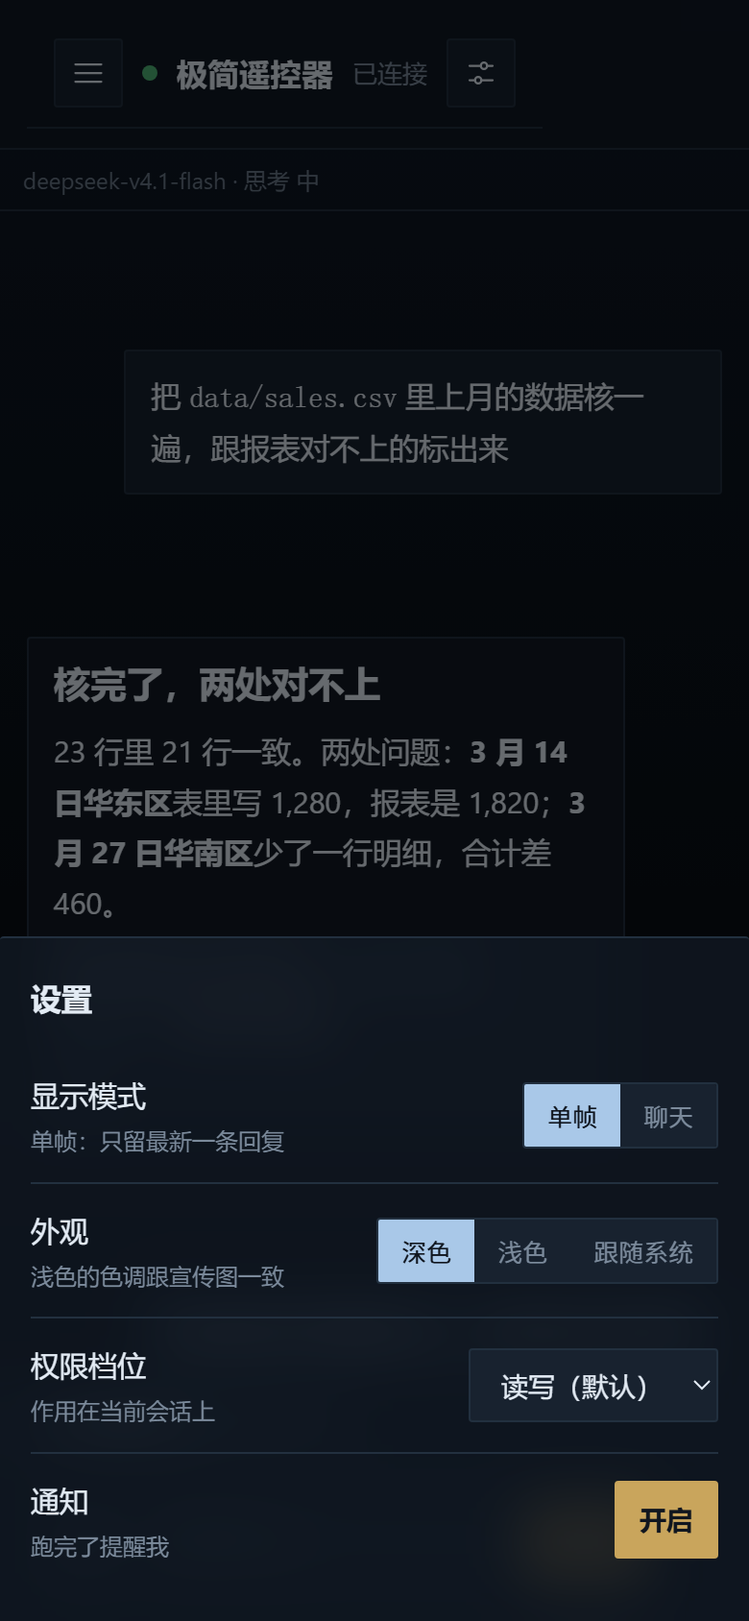
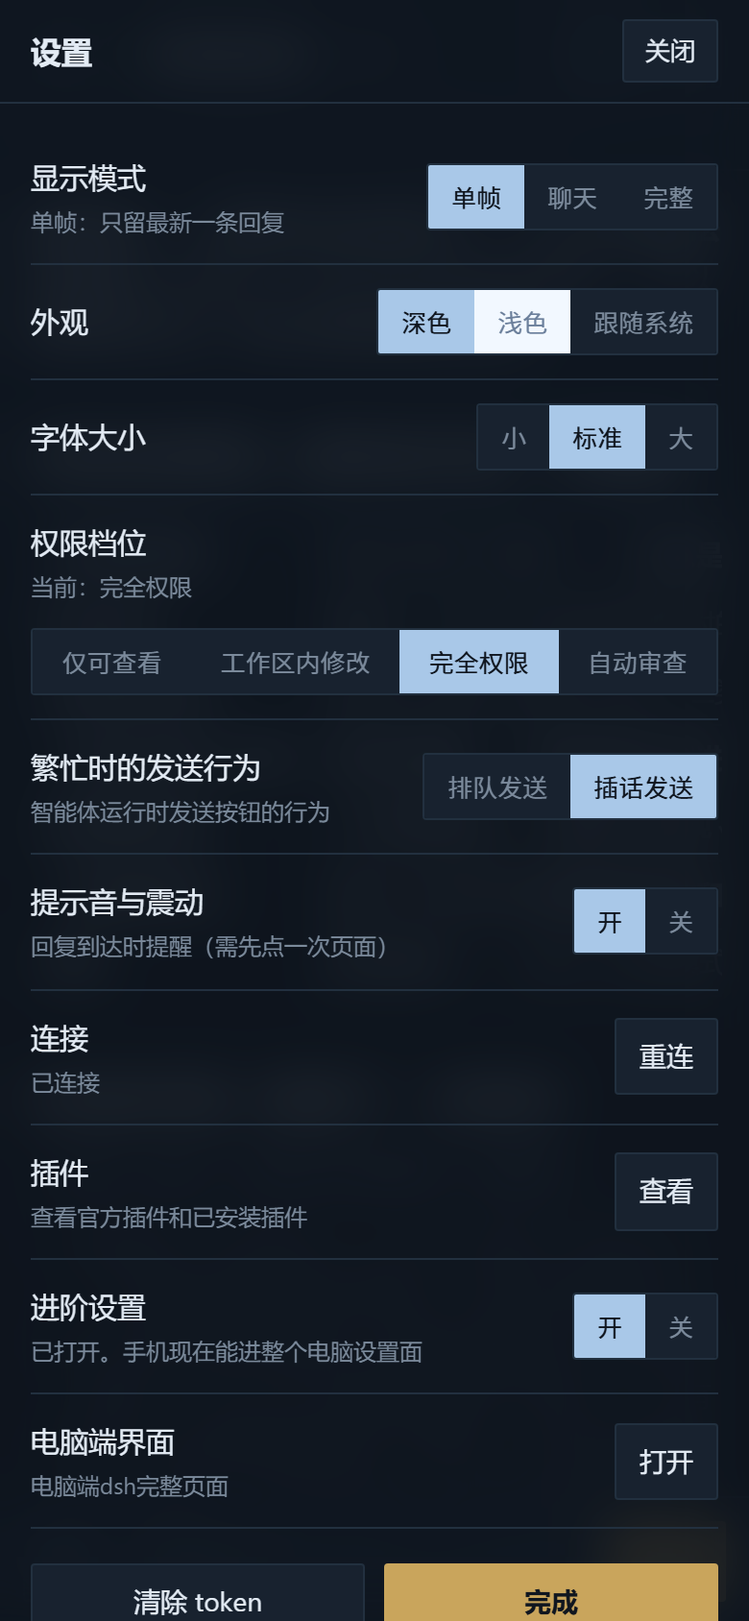
README：按新定位重写开篇，并整体润色（中英同步 + 重拍两张设置页截图）
用户原话：「随着项目功能的丰富，我们的 README 可能也需要一定的更新，比如最开始我们项目提供的是**跳过复杂繁琐的执行轨迹信息，只保留问答**，
但现在我们已经提供了**完整模式**，我们的卖点变成了**提供各种不同的用户需求对话界面显示方式**。
请你用子代理更新 README，同时**润色我们的 README 文字语言，让其更加易读、流畅且专业，去除 AI 味，增强逻辑性与人类语感**。」

## 开篇：换一个说法（不只是加一句）

- 改前：「**你发一句话，手机上只收到它的结论。**」＋「…这个插件是给「出门在外，只想发指令、等结论」这件事做的——一部手机、一个输入框、最新的一条回答，就这些。」
- 改后：「**你发一句话，手机怎么给你看，由你挑。**」＋「工具调用、文件读写、子 Agent 调度、思考正文，这些要不要出现在屏幕上，我们不替你做主。
  同一场对话有三种看法：整屏只留最新一条结论的「单帧」，一来一回顺着排下来的「聊天」，还有把每一步过程插回原位的「完整」。
  默认落在最省心的「单帧」：手机亮起来，只有你要的那句话。」

配套改了宣传图 alt、「这是什么」的第 2/3 条、以及定位句：
「别的手机端……只把你要的那两句送过去」→「**我们多给一样东西：看不看过程、看多少，由你当场决定**」。

## 内容更新（事实全部回读代码，非推测）

- **三种显示模式**（单帧 / 聊天 / 完整，**默认单帧**）—— `page.html` 1895-1899、`index.js` 128；段落上移并扩写；
- **新增「会话列表里，每条会话都能就地处理」**：⋯ 四项（重命名 / 置顶·取消置顶 / 分叉会话 / 归档·取消归档）、
  归档行不给置顶、三类待处理徽标（待审批 / 计划待审 / 待回答）、已置顶·已归档、「展开其余 N 个」—— `page.html` 4795-4824、4784-4791、4622-4627；
- **新增「回到底部」浮标段**：130 毫秒淡入淡出、**单帧模式不出现** —— `page.html` 1634-1668、4510；
- 「什么时候会用到它」加第 4 条（想追过程的那一次）；「为什么做这个插件」结尾按新定位重写（补 0.1.9 的「完整」模式）；
- 核对并保留：「进阶设置 → 电脑端界面」说法与代码一致；默认外观**浅色**（`page.html` 1722/2193）；
  适用版本与 `package.json` 的 `>=0.1.5-rc.2 <0.3.0` 一致；限速「一分钟错 5 次」与 `server.js` 69-72 一致。
- **「显示已归档」筛选按用户要求没有写进 README**（它已隐藏）。

## 润色（用户点名的三种腔一个不要；AI 味逐条避开）

原则：**像编辑在跟人讲 —— 先给判断，再自然补一句"为什么"或一个具体例子**；清掉破折号滥用、总-分结构、无信息收尾句。
典型几处：
- 一段里两个破折号拆成两句（profile 说明）；
- 括号里塞整句 → 提成主句用句号收（版本段）；
- 引号统一成「」、破折号改逗号（任务执行那一屏）；
- **先保事实再润色**：「界面做得相当『原始』：**完全省略**电脑网页端的执行步骤」→「最早的样子相当『原始』：那一整套执行步骤一概不画」，
  并补 0.1.9 的「完整」模式；结尾那句「某种意义上，它的存在，是为了让你更少地去看它」原样保留。

## 英文版
[…]

diff --git a/README.md b/README.md
@@ -6,11 +6,11 @@
 
 [English](README.en.md)
 
-![极简遥控器：手机上只留你的指令和它的结论，中间过程留在电脑上](https://raw.githubusercontent.com/xingzhen199186/dsh-mini-remote/main/docs/promo.webp)
+![极简遥控器：手机上只留你的指令和它的结论，过程想看的时候再调出来](https://raw.githubusercontent.com/xingzhen199186/dsh-mini-remote/main/docs/promo.webp)
 
-**你发一句话，手机上只收到它的结论。**
+**你发一句话，手机怎么给你看，由你挑。**
 
-工具调用、文件读写、子 Agent 调度、思考过程的正文，全都不上手机。这个插件是给「出门在外，只想发指令、等结论」这件事做的——一部手机、一个输入框、最新的一条回答，就这些。
+工具调用、文件读写、子 Agent 调度、思考正文，这些要不要出现在屏幕上，我们不替你做主。同一场对话有三种看法：整屏只留最新一条结论的「单帧」，一来一回顺着排下来的「聊天」，还有把每一步过程插回原位的「完整」。默认落在最省心的「单帧」：手机亮起来，只有你要的那句话。
 
 [这是什么](#这是什么) ・ [什么时候会用到它](#什么时候会用到它) ・ [安装](#安装) ・ [连上手机](#连上手机三条路选一条) ・ [手机上能做什么](#手机上能做什么) ・ [在飞书里遥控](#在飞书里遥控) ・ [常见问题](#常见问题) ・ [安全](#安全) ・ [为什么做这个插件](#为什么做这个插件)
 
@@ -20,24 +20,25 @@
 
 一个 [DeepSeek Harness](https://github.com/deepseek-ai/DeepSeek-Harness)（DSH，一个用插件扩展的 AI agent 框架）插件。装上之后：
 
-- 手机上打开一个网页，上面只有一个输入框和最新的一条回答；
+- 手机上打开一个网页，上面有一个输入框，和当前这场对话；
 - 你在手机上发的指令，直接交给电脑上正在跑的那个会话；
-- AI 干活的中间过程（工具调用、读写文件、子 Agent、思考正文）**一律不推给手机**；
+- 中间过程露不露出来，由你选的显示模式决定：单帧和聊天里没有工具调用、没有文件 diff；完整模式把它们插回对话里的原位，可以逐层点开；
 - 唯一会「说话」的是鲸鱼娘：模型在步骤之间自言自语的那一句，由她念出来，只进她的气泡。
 
-界面长这样——深色和浅色两套，设置里随手换：
+界面长这样，深色和浅色两套，设置里随手换：
 
-<img width="290" alt="深色：一段对话，手机上只留你的指令和它的结论" src="https://raw.githubusercontent.com/xingzhen199186/dsh-mini-remote/main/docs/screen-dark.png" /> <img width="290" alt="浅色：同一段对话，色调跟宣传图那张画统一" src="https://raw.githubusercontent.com/xingzhen199186/dsh-mini-remote/main/docs/screen-light.png" />
+<img width="290" alt="深色：一段对话，一来一回排成气泡，手机上只留你的指令和它的结论" src="https://raw.githubusercontent.com/xingzhen199186/dsh-mini-remote/main/docs/screen-dark.png" /> <img width="290" alt="浅色：同一段对话，色调跟宣传图那张画统一" src="https://raw.githubusercontent.com/xingzhen199186/dsh-mini-remote/main/docs/screen-light.png" />
 
-它**不是**：电脑端界面的备用屏。电脑上有的审批弹窗、文件 diff、工具调用链，默认那张页面上都没有——它刻意做得很少。（想要**整个**电脑端界面，设置里有一个默认关着的入口，见[手机上能做什么](#手机上能做什么)的最后一段。）
+它**不是**电脑端界面的备用屏。电脑上有的审批弹窗、文件 diff、工具调用链，默认那张页面上都没有，它刻意做得很少。（想要**整个**电脑端界面，设置里有一个默认关着的入口，见[手机上能做什么](#手机上能做什么)的最后一段。）
 
-别的手机端会把电脑上的执行过程原样搬过来，它反过来：**只把你要的那两句送过去**。这是它和它们最不一样的地方。
+别的手机端一般会把电脑上的执行过程原样搬过来。我们多给一样东西：**看不看过程、看多少，由你当场决定。**
 
 ## 什么时候会用到它
 
-- **出门在外，任务还在跑。** 你人在外面，电脑在桌上跑着一轮任务；你只想掏出手机看一眼「跑完没有」，顺便把下一句交代过去。
+- **出门在外，任务还在跑。** 电脑在桌上跑着一轮，你只想掏出手机看一眼跑完没有，顺便把下一句交代过去。
 - **陪孩子、吃饭、散步的时候。** 手不想碰电脑，但脑子里冒出一个念头，想让它先干着。
 - **电脑在书房，人在客厅。** 不值得专门走回去，也不想把电脑端那一整屏过程搬到手机上看。
+- **反过来的那一次：你想知道它刚才到底动了哪些文件。** 切到「完整」，整轮过程都在原位，不会因为在手机上看就少一层。
 
 ---
 
@@ -49,7 +50,7 @@ dsh plugin --profile web add dsh-mini-remote
 
 装完**必须重启一次 DSH**（把 `dsh web` 那个窗口关掉重开），左栏才会多出「手机遥控」；重启后的启动日志里会打印手机访问地址和密码。
 
-命令里的 `web` 是 DSH 的**配置档名**（profile）——就是 `~/.dsh/profiles/` 下面那个文件夹的名字，多数人的默认档就叫 `web`。不叫这个的话，把它换成你自己的。
+命令里的 `web` 是 DSH 的**配置档名**（profile），就是 `~/.dsh/profiles/` 下面那个文件夹的名字。多数人的默认档就叫 `web`，不叫这个名字就换成你自己的。
 
 <details>
 <summary>从 GitHub 源码装、从本地目录装，以及它适配哪些 DSH 版本</summary>
@@ -66,9 +67,9 @@ dsh plugin --profile web add github:xingzhen199186/dsh-mini-remote
 dsh plugin --profile web add <你放源码的目录>
 ```
 
-**它适配哪些 DSH 版本。** 这个插件在 DSH **0.1.5-rc.2** 上开发，在 **0.1.7-rc.2** 上重新逐项核对过，**0.2.0 这一版就是在 0.2.0-rc.1 / 0.2.0-rc.2 上做出来的**（插件用到的那些接口，一个都没变，两端各跑了一遍全套检查）；**低于 0.1.5 的版本没试过**，声明的上限是 **0.3.0**。`rc` 是官方给预览版编的号，DSH 目前整体还是开发者预览版，跨小版本可能有破坏性改动，所以比 0.2.0 更新的版本同样不保证。真遇上不兼容，症状一般是某一块入口不见了（比如顶栏那行模型），其余部分照常——插件是按「少了哪个服务就关掉哪块功能」写的，不会整个起不来。手机端那些界面适配另有一份清单和一个**升级自检**（`tools/structure-check.mjs`），升级完对着活界面逐条查一遍，就知道哪条被改坏了。
+**它适配哪些 DSH 版本。** 这个插件在 DSH **0.1.5-rc.2** 上开发，在 **0.1.7-rc.2** 上重新逐项核对过；**0.2.0 这一版是在 0.2.0-rc.1 / 0.2.0-rc.2 上做出来的**，插件用到的那些接口一个都没变，两端各跑了一遍全套检查。**低于 0.1.5 的版本没试过**，声明的上限是 **0.3.0**。`rc` 是官方给预览版编的号，DSH 目前整体还是开发者预览版，跨小版本可能有破坏性改动，所以比 0.2.0 更新的版本同样不保证。真遇上不兼容，症状一般是某一块入口不见了（比如顶栏那行模型），其余部分照常，因为插件是按「少了哪个服务就关掉哪块功能」写的，不会整个起不来。手机端那些界面适配另有一份清单和一个**升级自检**（`tools/structure-check.mjs`），升级完对着活界面逐条查一遍，就知道哪条被改坏了。
 
-设置也是这样处理的：设置清单按 DSH 的标准方式声明，而在 0.1.5 那一代的库还没有相应能力，插件**照样装得上、功能照旧**，只是少了下面提到的「改完立即生效」。**0.1.7 这一代**上这条能力是齐的。
+设置也是这样处理的：设置清单按 DSH 的标准方式声明；在 0.1.5 那一代的库还没有相应能力，插件**照样装得上、功能照旧**，只是少了下面提到的「改完立即生效」。**0.1.7 这一代**上这条能力是齐的。
 
 </details>
 
@@ -123,7 +124,9 @@ dsh plugin --profile web add <你放源码的目录>
 
 ## 手机上能做什么
 
-打开链接就是全部界面：一个输入框，和最新的一条回复。
+**打开链接就是全部界面：一个输入框，一场对话。** 对话长什么样，取决于右上角设置里选的显示模式。
+
+**三种显示模式，随时换。** 点右上角的 ⚙：「单帧」（默认）整屏只留最新一条回复，适合「我就想看这次的结果」；「聊天」把一来一回排成气泡列表，适合连着追问好几轮；「完整」在聊天那一串里**把每一步过程插回原位**（和电脑端同一套长相），可以一层层点开看「这一步读了什么文件」，也能搜。三个模式看的是同一场对话，切换不会改动内容，只是换一种看法。用一阵子，你会知道自己偏哪个。
 
 **发指令。** 打字发出去，AI 就在电脑上开始干活。
 
@@ -133,15 +136,17 @@ dsh plugin --profile web add <你放源码的目录>
 
 **两套外观，随手换。** 设置里有一行「外观」：**深色**、**浅色**（默认）、**跟随系统**。深色是深海墨蓝打底；浅色那套的色是从宣传图那张画上取的——近白的冰蓝地、深宝蓝的字，主按钮也换成同一个宝蓝。选哪套记在手机上，下次打开还是它。
 
-<img width="290" alt="设置（深色）：显示模式与外观" src="https://raw.githubusercontent.com/xingzhen199186/dsh-mini-remote/main/docs/settings-dark.png" /> <img width="290" alt="设置（浅色）：选中态和主按钮都跟着换成宝蓝" src="https://raw.githubusercontent.com/xingzhen199186/dsh-mini-remote/main/docs/settings-light.png" />
+<img width="290" alt="设置（深色）：显示模式三选一、外观选中深色" src="https://raw.githubusercontent.com/xingzhen199186/dsh-mini-remote/main/docs/settings-dark.png" /> <img width="290" alt="设置（浅色）：选中态和主按钮都跟着换成宝蓝" src="https://raw.githubusercontent.com/xingzhen199186/dsh-mini-remote/main/docs/settings-light.png" />
 
-**任务执行中的那一屏。** 她迈步跑着，进度条在走，队列里排着"跑完这轮就轮到它们"的几条。这一屏上没有工具调用、没有文件差异——只有"在跑"这件事本身。
+**任务执行中的那一屏。** 她迈步跑着，进度条在走，队列里排着「跑完这轮就轮到它们」的几条。这一屏上没有工具调用、没有文件差异，只有「在跑」这件事本身。
 
 <img width="290" alt="执行中（深色，手机实拍）：鲸鱼娘正在跑、已计时 15 秒" src="https://raw.githubusercontent.com/xingzhen199186/dsh-mini-remote/main/docs/running-dark-phone.jpg" /> <img width="290" alt="执行中（浅色，手机实拍）：鲸鱼娘正在跑、已计时 7 分 43 秒、队列排着一条" src="https://raw.githubusercontent.com/xingzhen199186/dsh-mini-remote/main/docs/running-light-phone.jpg" />
 
-**三种显示模式。** 点右上角的 ⚙ 切换。「单帧」（默认）整屏只留最新一条回复，适合「我就想看这次的结果」；「聊天」是一来一回的气泡列表，适合连着追问好几轮；「完整」在聊天那一串里**把每一步过程插回原位**（和电脑端同一套长相），可以一层层点开看「这一步读了什么文件」，也能搜。用一阵子你会知道自己偏哪个。
+**会话列表里，每条会话都能就地处理。** 点条目上的 ⋯，里面有重命名、置顶（再点一下取消置顶）、分叉会话、归档（再点一下取回）；已经归档的那条不再给置顶，因为官方规定这两件事互斥。**分叉**是从最近完成的一轮复制出一条新会话，原来那条不动——想换个方向试，又不想弄脏原来那条的时候用它。列表里会直接标出**待审批 / 计划待审 / 待回答**（有事在等你），以及**已置顶 / 已归档**；一个工作区里空闲的会话不会一次全铺开，点「展开其余 N 个」继续往下看。
 
-**点开一个会话，能看到它之前聊过什么。** 在左边切到一个早就存在的会话，聊天模式会把之前的每一轮都列出来（你发过的指令、每一轮的结论），单帧模式只显示最后一条结论。**特别大的会话只给最近一段**：那种几万个事件的会话，整份读下来会把电脑上的 DSH 拖垮，所以只读末尾那一小段，并在最上面写明「这不是全部，只显示了最近一段」——你看到的那句话不是客套话，是实情。
+**往上翻过之后，右下角会浮出一颗「回到底部」。** 点一下回到最新那条；出现和消失各走一段 130 毫秒的淡入淡出。**单帧模式下它不出现**——那一屏只有一条回复，没有「回去」这回事。
+
+**点开一个会话，能看到它之前聊过什么。** 在左边切到一个早就存在的会话，聊天模式会把之前的每一轮都列出来（你发过的指令、每一轮的结论），单帧模式只显示最后一条结论。**特别大的会话只给最近一段**：那种几万个事件的会话，整份读下来会把电脑上的 DSH 拖垮，所以只读末尾那一小段，并在最上面写明「这不是全部，只显示了最近一段」。你看到的那句话不是客套话，是实情。
 
 **斜杠指令也能在手机上用。** 在输入框里打一个 `/`，上面就会列出这个会话能用的指令，接着打字按名字过滤，点一下就执行；要参数的会帮你填好、并告诉你它要什么。名单是电脑上 DSH 自己的那份（装了什么插件就有什么），执行结果在聊天里单独占一行，和 AI 说的话区分得开。打错的、不存在的指令会被明确拒绝并说明原因，**不会当成一句话发出去**。会话没在跑的时候没有指令可列，页面会直说。**指令这一版带不了附件**：你贴着的文件会留着，跟下一条普通消息一起发。
 
@@ -149,7 +154,7 @@ dsh plugin --profile web add <你放源码的目录>
 
 **顺手能改的三样。** 点顶栏那一行，换当前会话的模型和思考强度；切权限档位（仅可查看 / 工作区内修改 / 完全权限）；浏览电脑上的目录，登记新的工作区和会话。
 
-**默认看的是结论，不是过程。** 单帧和聊天这两个模式里没有工具调用链、没有文件 diff；唯一的例外是鲸鱼娘嘴里那一句自言自语——它只进气泡，不进回答区（见上面那一段）。想看过程，得自己切到「完整」模式。**系统层面的确认弹窗手机上点不了**（比如危险命令的审批），那类还得回电脑处理——手机上能答的是 AI 主动提给你的选择题，这两件事不一样。它的定位是一根遥控器：电视还得在那儿开着，遥控器才有用。
+**默认看的是结论，不是过程。** 单帧和聊天这两个模式里没有工具调用链、没有文件 diff；唯一的例外是鲸鱼娘嘴里那一句自言自语，它只进气泡，不进回答区（见上面那一段）。想看过程，切到「完整」就是。**系统层面的确认弹窗手机上点不了**（比如危险命令的审批），那类还得回电脑处理——手机上能答的是 AI 主动提给你的选择题，这两件事不一样。它的定位是一根遥控器：电视还得在那儿开着，遥控器才有用。
 
 **想要整个电脑端界面，也搬得动（「进阶设置」）。** 设置页里有一项**默认关着**的「进阶设置」：打开它，下面会多出一行「电脑端界面」，点「打开」，电脑上那个完整的 DSH 页面就原样嵌在手机这半边，不跳转也不开新标签——改模型配置、装卸插件、翻会话记录这些手机页上没有的事，都能在这儿办。**它和上面那条定位正好相反**（一开，中间过程就全在屏幕上），所以默认关着：打开时页面会把后果说清楚（这个访问口令的权限会扩到整个电脑端设置面），要点两次确认；电脑端地址拿不到时，这一项不显示。
 
@@ -217,19 +222,21 @@ dsh plugin --profile web add <你放源码的目录>
 
 ## 为什么做这个插件
 
-初衷是因为现在 AGENT 任务执行一轮往往需要很久，而如果出门，则需要手机端来远程操作。
+起因很实在：Agent 跑一轮往往要很久，人一出远门，就需要手机来远程接手。
 
-但现有的手机端，会把 PC 的执行步骤非常还原地展现出来。你发一条指令，它可能要想上几分钟、读几十个文件、调好几次工具，最后才给你一个结论。如果出门或有事不在电脑前，实在没时间盯着手机看那么细致。
+但现有那些手机端，会把电脑上的执行步骤非常还原地展现出来。你发一条指令，它可能要想上几分钟、读几十个文件、调好几次工具，最后才给你一个结论。出门在外或者手上正忙的时候，实在没时间盯着手机看那么细。
 
-我并不认为那种方式不好。信息完整、过程可控，如果你要认真处理任务，它是对的。
+我并不觉得那种做法不好。信息完整、过程可控，要认真处理任务的时候，它是对的。
 
-但出门在外的时候，就我个人而言，我需要的是另一种东西——**更轻便、更少占用注意力的交互方式**。手机屏幕就那么大，出门时的精力也就那么多。而大部分时候我真正需要的只有一件事：**这一轮跑完了，该发下一条指令了**。而且大部分时间，即使在电脑上，我也很少会去仔细阅读 AI 做执行过程中的"自言自语"。
+只是人在外面的时候，我个人需要的是另一种东西：**更轻便、占用注意力更少的交互方式**。手机屏幕就那么大，出门时的精力也就那么多。而大部分时候我真正要的只有一件事：**这一轮跑完了，该发下一条指令了。** 而且即使在电脑上，我也很少仔细去读 AI 执行过程中那些「自言自语」。
 
-所以这个插件的界面做得相当「原始」：它完全省略了电脑网页端的执行步骤，只把 AI 最后的结论送到你面前。
+所以这个插件最早的样子相当「原始」：电脑网页端那一整套执行步骤一概不画，只把 AI 最后的结论送到你面前。
+
+后来，这条路上多了一个分岔。0.1.9 起有了「完整」模式，把执行过程原样插回对话里。它不推翻上面那句判断，默认仍然先给结论；但它承认另一件事：偶尔想知道过程的时候，你不该只能回到电脑前。
 
 **某种意义上，它的存在，是为了让你更少地去看它。**
 
-你可以更加自由地支配自己的时间，而不是当你和女儿玩耍时，抑或出游时，被困在那个小小的屏幕里。
+这样你能更自由地支配自己的时间，而不是在陪女儿玩的时候、或者出门在外的时候，被困在那个小小的屏幕里。
 
 ## 相关文档
 

diff --git a/README.en.md b/README.en.md
@@ -6,11 +6,11 @@
 
 [中文说明](README.md)
 
-![Minimal Remote: only your instruction and the AI's conclusion reach the phone; everything in between stays on the computer](https://raw.githubusercontent.com/xingzhen199186/dsh-mini-remote/main/docs/promo.webp)
+![Minimal Remote: the phone keeps your instruction and its conclusion, and shows you the process only when you ask for it](https://raw.githubusercontent.com/xingzhen199186/dsh-mini-remote/main/docs/promo.webp)
 
-**You send one line; the phone gets one conclusion.**
+**You send one line. How the phone shows it is your call.**
 
-Tool calls, file reads and writes, sub-agent dispatch, and the body of the reasoning trace never reach the phone. This plugin exists for one situation: you're out, and all you want to do is send an instruction and read the result — a phone, one input box, the latest reply.
+Whether tool calls, file reads and writes, sub-agent dispatch and the body of the reasoning trace appear on screen is not a decision we make for you. One conversation, three ways to look at it: "Single frame", which keeps only the newest conclusion on screen; "Chat", which runs the exchange one turn after another; "Full", which puts every step back where it happened. The default is the least demanding one, Single frame: you light up the phone, and there is the one line you asked for.
 
 [What it is](#what-it-is) ・ [When you'd use it](#when-youd-use-it) ・ [Install](#install) ・ [Connecting your phone](#connecting-your-phone-three-routes-pick-one) ・ [What the phone can do](#what-the-phone-can-do) ・ [Remote control from Feishu](#remote-control-from-feishu) ・ [FAQ](#faq) ・ [Security](#security) ・ [Why I built this](#why-i-built-this-plugin)
 
@@ -20,24 +20,25 @@ Tool calls, file reads and writes, sub-agent dispatch, and the body of the reaso
 
 A plugin for [DeepSeek Harness](https://github.com/deepseek-ai/DeepSeek-Harness) (DSH, a plugin-extensible AI agent framework). Once installed:
 
-- a web page opens on your phone with exactly one input box and the latest reply;
+- a web page opens on your phone with one input box, and the conversation you are in;
 - instructions you send from the phone go straight to the session already running on your computer;
-- everything in between — tool calls, files read and written, sub-agents, the reasoning trace itself — **is never pushed to the phone**;
+- whether the process appears at all is up to the display mode you pick: Single frame and Chat carry no tool calls and no file diffs, while Full puts them back in their place among the messages, with layers you can open one at a time;
 - the only thing that "talks" is the whale girl: the line the model mutters between steps, spoken in her speech bubble.
 
 Here is what the interface looks like — dark and light, switchable in settings (rendered at a phone size of 390×844):
 
-<img width="290" alt="Dark: one conversation, carrying only your instruction and the conclusion" src="https://raw.githubusercontent.com/xingzhen199186/dsh-mini-remote/main/docs/screen-dark.png" /> <img width="290" alt="Light: the same conversation, in the palette taken from the promo artwork" src="https://raw.githubusercontent.com/xingzhen199186/dsh-mini-remote/main/docs/screen-light.png" />
+<img width="290" alt="Dark: one conversation laid out as back-and-forth bubbles, carrying only your instruction and the conclusion" src="https://raw.githubusercontent.com/xingzhen199186/dsh-mini-remote/main/docs/screen-dark.png" /> <img width="290" alt="Light: the same conversation, in the palette taken from the promo artwork" src="https://raw.githubusercontent.com/xingzhen199186/dsh-mini-remote/main/docs/screen-light.png" />
 
 It is **not** a second screen for the desktop interface. Approval dialogs, file diffs and tool-call chains exist on the computer and nowhere on the default page — deliberately. It does very little. (If you want the **whole** desktop interface, there is an off-by-default entry in settings — see the last paragraph of [What the phone can do](#what-the-phone-can-do).)
 
-Other phone clients copy the computer's execution process over to the phone in full. This one does the opposite: **it sends only the two lines you asked for.** That is the single biggest difference between it and them.
+Other phone clients copy the computer's execution process over to the phone as it is. This one adds a choice on top: **how much of that process you see, and when, is yours to make at the moment.**
 
 ## When you'd use it
 
 - **You're out and a task is still running.** The computer is at your desk mid-round; you just want to glance at the phone to see whether it finished, and hand it the next line while you're at it.
 - **You're with your kid, eating, or out for a walk.** You don't want to touch the computer, but an idea shows up and you'd like it working on that already.
 - **The computer is in the study and you're in the living room.** Not worth walking back, and not worth pulling that whole screen of process onto the phone.
+- **And the other way round: you want to know which files it just touched.** Switch to Full and the whole round is there in place; nothing is missing just because you are looking at it on a phone.
 
 ---
 
@@ -66,7 +67,7 @@ If you already have the source on disk, you can point it at the folder:
 dsh plugin --profile web add <the folder you put the source in>
 ```
 
-**Which DSH versions it fits.** This plugin was developed on DSH **0.1.5-rc.2** and re-checked item by item on **0.1.7-rc.2**; **0.2.0 itself was built on 0.2.0-rc.1 / 0.2.0-rc.2** (every interface it uses was unchanged, and the full check suite ran on both sides). **Versions below 0.1.5 have not been tried**, and the declared ceiling is **0.3.0**. `rc` is the tag the project puts on preview builds, and DSH as a whole is still a developer preview — minor versions may break things, so versions newer than 0.2.0 are not guaranteed either. If it ever does hit an incompatibility, the usual symptom is one entry point going missing (the model line at the top, say) while everything else keeps working: the plugin is written so that a missing service switches off that one feature rather than the whole thing. The phone-side interface adaptations also come with a dependency manifest and an **upgrade self-check** (`tools/structure-check.mjs`): run it against the live page after an upgrade and it walks every dependency entry by entry.
+**Which DSH versions it fits.** This plugin was developed on DSH **0.1.5-rc.2** and re-checked item by item on **0.1.7-rc.2**; **0.2.0 itself was built on 0.2.0-rc.1 / 0.2.0-rc.2**, where every interface it uses was unchanged and the full check suite ran on both sides. **Versions below 0.1.5 have not been tried**, and the declared ceiling is **0.3.0**. `rc` is the tag the project puts on preview builds, and DSH as a whole is still a developer preview — minor versions may break things, so versions newer than 0.2.0 are not guaranteed either. If it ever does hit an incompatibility, the usual symptom is one entry point going missing (the model line at the top, say) while everything else keeps working: the plugin is written so that a missing service switches off that one feature rather than the whole thing. The phone-side interface adaptations also come with a dependency manifest and an **upgrade self-check** (`tools/structure-check.mjs`): run it against the live page after an upgrade and it walks every dependency entry by entry.
 
 Settings follow the same rule: the settings are declared the standard DSH way, and on the 0.1.5-era library that ability does not exist yet — the plugin **still installs and works exactly as before**, it just loses the "applies immediately" behaviour mentioned below. On the **0.1.7 generation** that ability is fully there.
 
@@ -123,7 +124,9 @@ The difference is who can resolve the name. The Tailscale one uses a name shaped
 
 ## What the phone can do
 
-Open the link and that's the whole interface: one input box, and the latest reply.
+**Open the link and that's the whole interface: one input box, one conversation.** What that conversation looks like depends on the display mode you pick in settings, top right.
+
+**Three display modes, switchable anytime.** Tap the ⚙ in the top right. "Single frame" (the default) keeps only the newest reply on screen — good for "I just want to see how this one turned out". "Chat" lays the exchange out as a list of bubbles — good for several rounds of follow-up questions. "Full" takes that same list and **puts each step's process back in its original place** (the same shape the desktop app uses), with layers you can open one by one to see what that step read — and it is searchable. All three show the same conversation; switching changes how you look at it, never what it contains. Use it for a while and you'll know which you prefer.
 
 **Send instructions.** Type and send; the AI starts working on the computer.
 
@@ -133,13 +136,15 @@ Open the link and that's the whole interface: one input box, and the latest repl
 
 **Two appearances, switchable anytime.** Settings has an "Appearance" row: **Dark**, **Light** (the default), and **Follow system**. Dark is deep-sea navy; the light palette is taken from the promo artwork — near-white ice blue for the ground, deep royal blue for the text, and the same royal blue on primary buttons. Your choice is stored on the phone, so it is still there next time you open the page.
 
-<img width="290" alt="Settings (dark): display mode and appearance" src="https://raw.githubusercontent.com/xingzhen199186/dsh-mini-remote/main/docs/settings-dark.png" /> <img width="290" alt="Settings (light): the selected states and the primary button turn royal blue too" src="https://raw.githubusercontent.com/xingzhen199186/dsh-mini-remote/main/docs/settings-light.png" />
+<img width="290" alt="Settings (dark): three display modes, appearance set to dark" src="https://raw.githubusercontent.com/xingzhen199186/dsh-mini-remote/main/docs/settings-dark.png" /> <img width="290" alt="Settings (light): the selected states and the primary button turn royal blue too" src="https://raw.githubusercontent.com/xingzhen199186/dsh-mini-remote/main/docs/settings-light.png" />
 
 **The screen while a task is running.** She is mid-stride, the progress bar is moving, and the queue lists what goes next once this round ends. No tool calls and no file diffs on this screen — only the fact that something is running.
 
 <img width="290" alt="Running (dark, photographed on a phone): the whale girl running, 15s elapsed" src="https://raw.githubusercontent.com/xingzhen199186/dsh-mini-remote/main/docs/running-dark-phone.jpg" /> <img width="290" alt="Running (light, photographed on a phone): the whale girl running, 7m43s elapsed, one instruction queued" src="https://raw.githubusercontent.com/xingzhen199186/dsh-mini-remote/main/docs/running-light-phone.jpg" />
 
-**Three display modes.** Tap the ⚙ in the top right to switch. "Single frame" (the default) keeps only the newest reply on screen — good for "I just want to see how this one turned out". "Chat" is a back-and-forth bubble list — good for several rounds of follow-up questions. "Full" takes that same list and **puts each step's process back in its original place** (the same shape the desktop app uses), with layers you can open one by one to see what that step read — and it is searchable. Use it for a while and you'll know which you prefer.
+**Every session in the sidebar can be handled right there.** The ⋯ on a row holds rename, pin (tap once more to unpin), fork and archive (tap once more to restore); an archived row drops the pin, because the desktop app treats the two as mutually exclusive. A **fork** copies a new session out of the most recently completed round and leaves the original alone — that is what you want when you'd like to try another direction without dirtying the conversation you have. Rows also carry the states that matter: **待审批 / 计划待审 / 待回答** (an approval, a plan or a question is waiting on you) and **已置顶 / 已归档**. Idle sessions are not all laid out at once; **展开其余 N 个** (show the remaining N) brings up the next batch.
+
+**Scroll up and a "back to bottom" dot appears at the bottom right.** One tap returns you to the newest entry, and it fades in and out over 130 ms. **In Single frame it never appears** — that screen holds one reply, so there is no "back" to go to.
 
 **Open a session and you see what was said in it before.** Switch to a session that has existed for a while and Chat mode lists every earlier round (the instructions you sent, the conclusion of each round); Single frame shows only the last conclusion. **Very large sessions show only the most recent stretch**: reading one of those in full — tens of thousands of events — would drag the DSH process on your computer down, so the plugin reads just the tail and says so at the top ("this is not everything, only the most recent stretch"). That line is not boilerplate; it is the truth.
 
@@ -149,7 +154,7 @@ Open the link and that's the whole interface: one input box, and the latest repl
 
 **Three things you can change in passing.** Tap the line at the top to switch the current session's model and reasoning effort; switch the permission preset (View Only / Workspace Write / Full Access); browse the computer's folders to register a new workspace and start a session in it.
 
-**By default you're reading conclusions, not the process.** In Single frame and Chat there is no tool-call chain and no file diff; the one exception is the line the whale girl says out loud — it goes into her bubble, never into the answer area (see above). To read the process you switch to "Full" yourself. **System-level confirmation dialogs cannot be answered from the phone** (approving a dangerous command, for instance) — those still need the computer. What the phone can answer is the multiple-choice question the AI puts to you; the two are not the same thing. It's a remote control: the TV still has to be on for the remote to be any use.
+**By default you're reading conclusions, not the process.** In Single frame and Chat there is no tool-call chain and no file diff; the one exception is the line the whale girl says out loud — it goes into her bubble, never into the answer area (see above). To read the process, switch to "Full" yourself. **System-level confirmation dialogs cannot be answered from the phone** (approving a dangerous command, for instance) — those still need the computer. What the phone can answer is the multiple-choice question the AI puts to you; the two are not the same thing. It's a remote control: the TV still has to be on for the remote to be any use.
 
 **The whole desktop interface can be brought over too ("Advanced settings").** Settings has an **off-by-default** "Advanced settings" entry: turn it on and a "Desktop interface" row appears below it; tap "Open" and the computer's full DSH page is embedded right there on the phone — no jump, no new tab — so model configuration, plugin install and removal, session records and anything else the remote page doesn't have can be done from here. **It is the exact opposite of the positioning above** (switch it on and the whole process is on screen), which is why it starts off: turning it on spells the consequence out (the password's reach extends to the entire desktop settings surface) and takes two taps to confirm. When the plugin cannot learn the desktop address, the entry does not appear at all.
 
@@ -217,7 +222,7 @@ Beyond that: every endpoint requires the password; password comparison is consta
 
 ## Why I built this plugin
 
-The idea came from this: an agent task often takes a long time to finish, and if you step out, you need the phone to drive it remotely.
+The idea came from something plain: an agent round often takes a long time, and the moment you step out, you need the phone to take over.
 
 But the phone clients that exist show the PC's execution steps in faithful detail. You send one instruction; it may think for several minutes, read dozens of files, call tools a few times, and only then give you a conclusion. If you're out, or busy away from the computer, you simply don't have the time to watch the phone that closely.
 
@@ -225,11 +230,23 @@ I don't think that approach is bad. It's complete and controllable, and if you'r
 
 But when I'm out, what I want is something else — **a lighter way to interact that asks less of my attention**. The phone screen is small, and so is the attention I have to spare when I'm out. Most of the time I only need one thing: **this round is done, time to send the next instruction.** And even at my desk, I rarely read the AI's running commentary while it works.
 
-So the interface here is deliberately crude: it drops the PC's execution steps entirely and puts only the AI's final conclusion in front of you.
+So the interface here started out deliberately crude: it dropped the PC's execution steps entirely and put only the AI's final conclusion in front of you.
+
+Later, a fork appeared in that road. Since 0.1.9 there has been a "Full" mode, which puts the process back among the messages. It does not overturn the judgement above — the conclusion still comes first by default — but it admits one more thing: on the rare occasion you do want the process, you should not have to walk back to the computer for it.
 
 **In a sense, it exists so that you look at it less.**
 
 So you can spend your time more freely — instead of being stuck in that small screen while you're playing with your daughter or out on a trip.
+
+---
+
+## Related documents
+
+These are in Chinese only, and there is no English edition to point you at:
+
+- [Sprites and animation](docs/character.md) — the three image tools, the shared prompt blocks, the sizes and the acceptance criteria.
+- [Sprite reference frames (frozen 2026-09-28)](docs/art-refs/2026-09-28/) — nine frames with their full prompts, plus the rule that any later animation change is checked against them.
+- [Changelog](CHANGELOG.md) — what changed in each version, and why.
 
 ---
 
